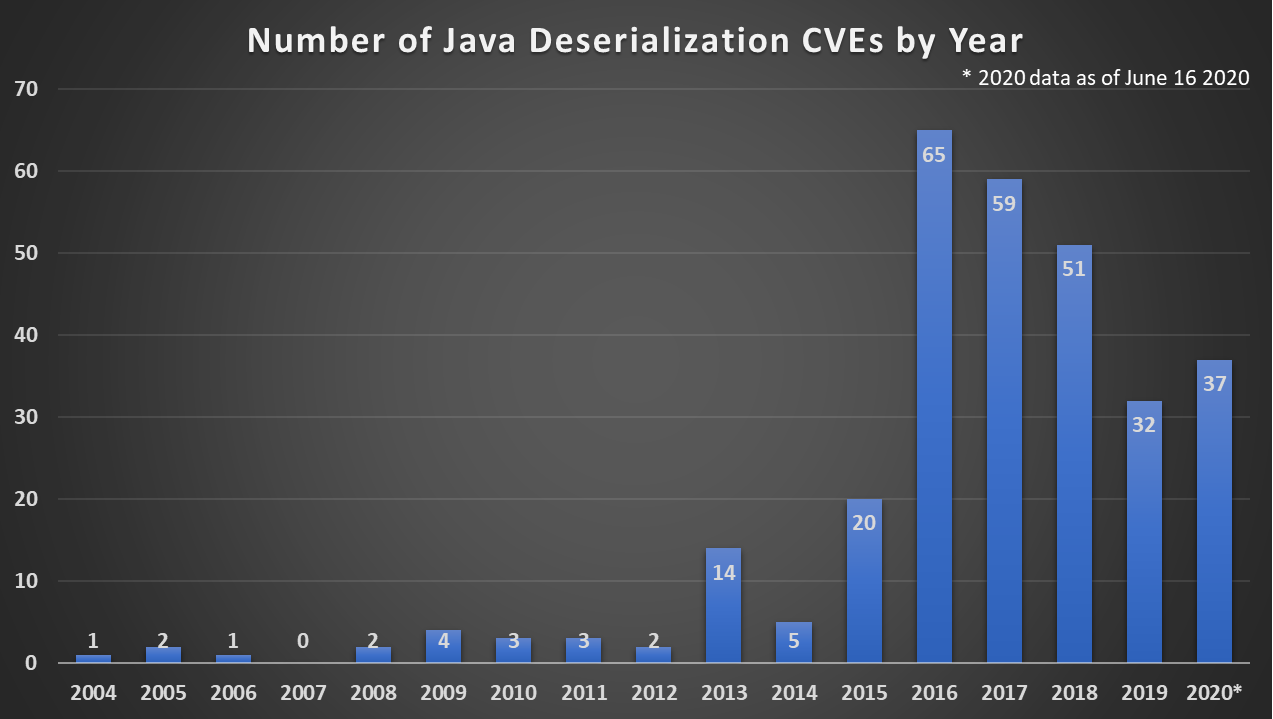
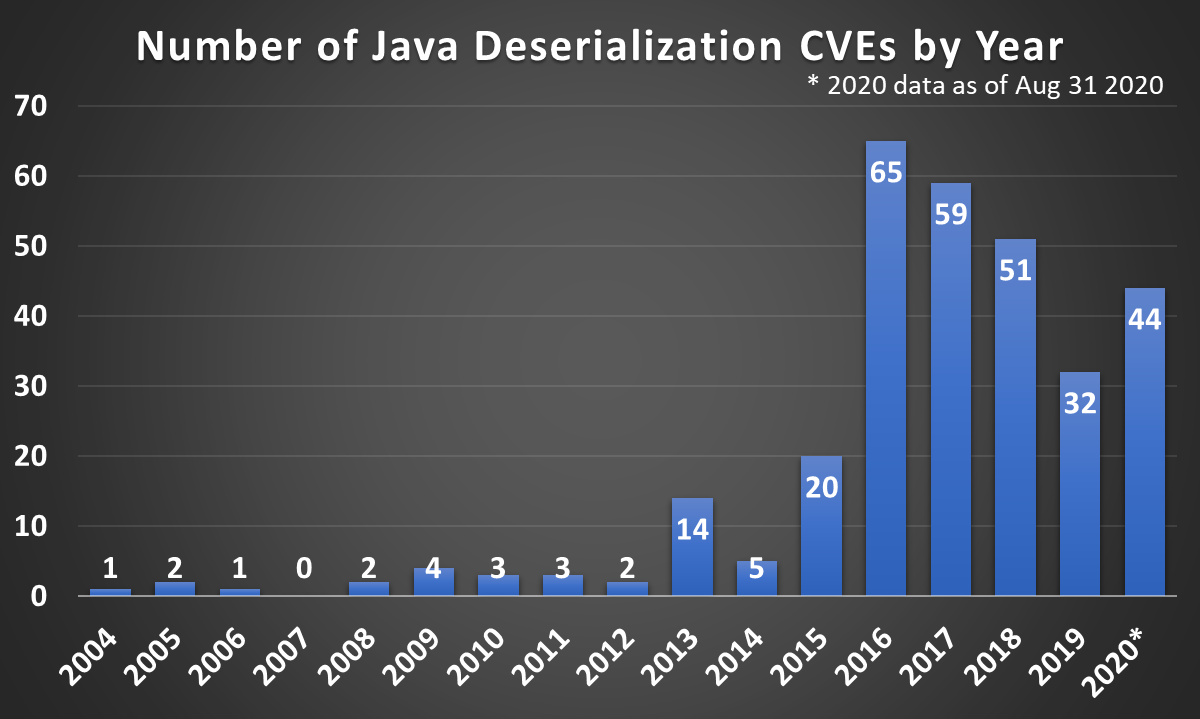
Add new CVEs from last 3 months

diff --git a/README.md b/README.md
@@ -277,6 +277,8 @@ This is a dataset of CVEs related to Java Deserialization. Since existing CVE da
 | [CVE-2020-10644](https://nvd.nist.gov/vuln/detail/CVE-2020-10644)     | 2020 | 7.5             | 5           |
 | [CVE-2020-10672](https://nvd.nist.gov/vuln/detail/CVE-2020-10672)     | 2020 | 8.8             | 6.8         |
 | [CVE-2020-10673](https://nvd.nist.gov/vuln/detail/CVE-2020-10673)     | 2020 | 8.8             | 6.8         |
+| [CVE-2020-10740](https://nvd.nist.gov/vuln/detail/CVE-2020-10740)     | 2020 | 7.5             | 6           |
+| [CVE-2020-10917](https://nvd.nist.gov/vuln/detail/CVE-2020-10917)     | 2020 | 9.8             | 7.5         |
 | [CVE-2020-10969](https://nvd.nist.gov/vuln/detail/CVE-2020-10969)     | 2020 | 8.8             | 6.8         |
 | [CVE-2020-11111](https://nvd.nist.gov/vuln/detail/CVE-2020-11111)     | 2020 | 8.8             | 6.8         |
 | [CVE-2020-11112](https://nvd.nist.gov/vuln/detail/CVE-2020-11112)     | 2020 | 8.8             | 6.8         |
@@ -288,8 +290,10 @@ This is a dataset of CVEs related to Java Deserialization. Since existing CVE da
 | [CVE-2020-12133](https://nvd.nist.gov/vuln/detail/CVE-2020-12133)     | 2020 | 9.8             | 10          |
 | [CVE-2020-12760](https://nvd.nist.gov/vuln/detail/CVE-2020-12760)     | 2020 | 8.8             | 6.5         |
 | [CVE-2020-12835](https://nvd.nist.gov/vuln/detail/CVE-2020-12835)     | 2020 | 9.8             | 7.5         |
+| [CVE-2020-15842](https://nvd.nist.gov/vuln/detail/CVE-2020-15842)     | 2020 | 8.1             | 6.8         |
 | [CVE-2020-1714](https://nvd.nist.gov/vuln/detail/CVE-2020-1714)       | 2020 | 8.8             | 6.5         |
 | [CVE-2020-1947](https://nvd.nist.gov/vuln/detail/CVE-2020-1947)       | 2020 | 9.8             | 7.5         |
+| [CVE-2020-1948](https://nvd.nist.gov/vuln/detail/CVE-2020-1948)       | 2020 | 9.8             | 7.5         |
 | [CVE-2020-2551](https://nvd.nist.gov/vuln/detail/CVE-2020-2551)       | 2020 | 9.8             | 7.5         |
 | [CVE-2020-2555](https://nvd.nist.gov/vuln/detail/CVE-2020-2555)       | 2020 | 9.8             | 7.5         |
 | [CVE-2020-2583](https://nvd.nist.gov/vuln/detail/CVE-2020-2583)       | 2020 | 3.7             | 4.3         |
@@ -299,13 +303,18 @@ This is a dataset of CVEs related to Java Deserialization. Since existing CVE da
 | [CVE-2020-2883](https://nvd.nist.gov/vuln/detail/CVE-2020-2883)       | 2020 | 9.8             | 7.5         |
 | [CVE-2020-2950](https://nvd.nist.gov/vuln/detail/CVE-2020-2950)       | 2020 | 9.8             | 7.5         |
 | [CVE-2020-3280](https://nvd.nist.gov/vuln/detail/CVE-2020-3280)       | 2020 | 9.8             | 10          |
+| [CVE-2020-4305](https://nvd.nist.gov/vuln/detail/CVE-2020-4305)       | 2020 | 8.8             | 9.3         |
 | [CVE-2020-4448](https://nvd.nist.gov/vuln/detail/CVE-2020-4448)       | 2020 | 9.8             | 10          |
 | [CVE-2020-4449](https://nvd.nist.gov/vuln/detail/CVE-2020-4449)       | 2020 | 7.5             | 5           |
 | [CVE-2020-4450](https://nvd.nist.gov/vuln/detail/CVE-2020-4450)       | 2020 | 9.8             | 10          |
 | [CVE-2020-5327](https://nvd.nist.gov/vuln/detail/CVE-2020-5327)       | 2020 | 9.8             | 9.3         |
+| [CVE-2020-5411](https://nvd.nist.gov/vuln/detail/CVE-2020-5411)       | 2020 | 8.1             | 6.8         |
+| [CVE-2020-5413](https://nvd.nist.gov/vuln/detail/CVE-2020-5413)       | 2020 | 9.8             | 7.5         |
 | [CVE-2020-7961](https://nvd.nist.gov/vuln/detail/CVE-2020-7961)       | 2020 | 9.8             | 7.5         |
 | [CVE-2020-8840](https://nvd.nist.gov/vuln/detail/CVE-2020-8840)       | 2020 | 9.8             | 7.5         |
 | [CVE-2020-9484](https://nvd.nist.gov/vuln/detail/CVE-2020-9484)       | 2020 | 7               | 4.4         |
 | [CVE-2020-9546](https://nvd.nist.gov/vuln/detail/CVE-2020-9546)       | 2020 | 9.8             | 6.8         |
 | [CVE-2020-9547](https://nvd.nist.gov/vuln/detail/CVE-2020-9547)       | 2020 | 9.8             | 6.8         |
 | [CVE-2020-9548](https://nvd.nist.gov/vuln/detail/CVE-2020-9548)       | 2020 | 9.8             | 6.8         |
+
+
